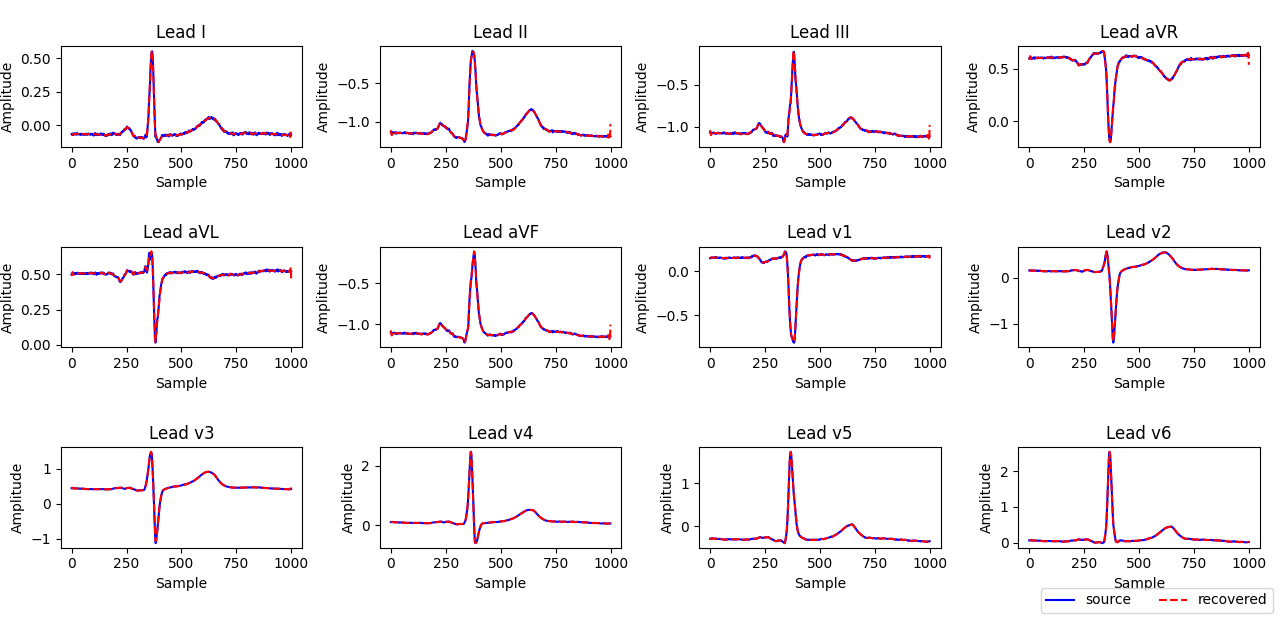
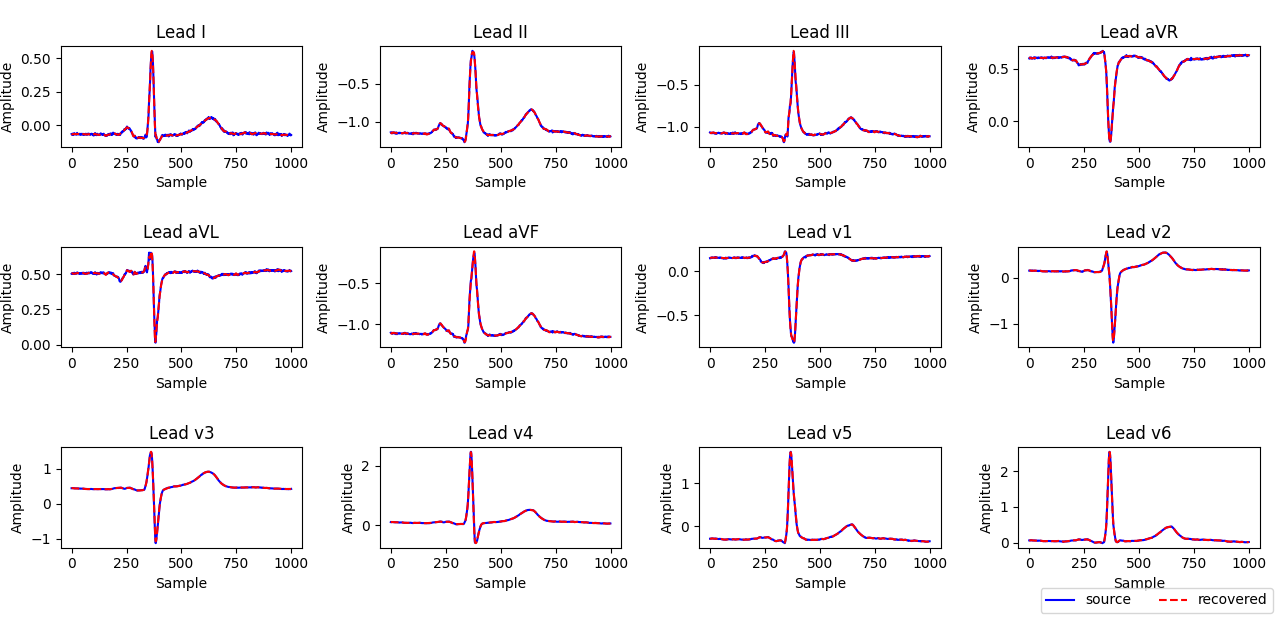
Cleanup

diff --git a/paper/content/results.tex b/paper/content/results.tex
@@ -2,8 +2,26 @@
 
 To demonstrate functionality of the software implementation, a 1-second long sample was selected from the `s0306lre' data source.
 This waveform contains a single heartbeat pulse, and was shown to yield ideal results with the group LASSO algorithm.
+The Python code below demonstrates a high-level overview of the process that was applied to the waveform.
 Figure \ref{fig:compression} shows the original selected waveform of the ECG on lead 2, as well as the waveform with compression applied.
 Note that a compression ratio of 10:1 is selected, which yields a compressed length of 100 samples.
+
+\begin{lstlisting}[language=Python, caption=Full Compression and Recovery of 12 Lead ECG]
+    """scripts\demo.py"""
+    ecg = csecg.Ecg(channel_names, signals)
+
+    # Compress the signal!
+    cr = 10
+    phi = csecg.sensing_matrix(ecg, cr)
+    compressed_data = phi @ ecg.signals
+
+    # Compute the basis matrix and solve for the sparse coefficient matrix
+    psi = csecg.basis_matrix(ecg.length)
+    reconstructed_coefs = csecg.group_lasso_solver(compressed_data, phi, psi)
+
+    # Recover the signal!
+    recovered_signals = psi @ reconstructed_coefs
+\end{lstlisting}
 
 \begin{figure}[h]
     \centering
@@ -18,14 +36,14 @@ Recovering the original signal from the compressed data and sensing matrix yield
 
 \begin{figure}[H]
     \centering
-    \includegraphics[width=.95\textwidth]{demo_lead_ii_recovered.png}
+    \includegraphics[width=1.1\textwidth]{demo_lead_ii_recovered.png}
     \caption{Source ECG v.s. Recovered Signal, Lead II}
     \label{fig:lead_ii_recovered}
 \end{figure}
 
 \begin{figure}[H]
     \centering
-    \includegraphics[width=.95\textwidth]{demo_all_leads_recovered.png}
+    \includegraphics[width=\textwidth]{demo_all_leads_recovered.png}
     \caption{Source ECG v.s. Recovered Signal, All Leads}
     \label{fig:all_recovered}
 \end{figure}

diff --git a/paper/SchottJordanFinalProject.tex b/paper/SchottJordanFinalProject.tex
@@ -47,6 +47,10 @@ The source code used in this paper is publicly available at:
 \newline
 \url{https://github.com/jschott515/colostate-ece537-project}
 
+\section*{AI Disclosure}
+AI tools were used during the preparation of this report to identify potential references, provide supplemental explanations for technical concepts, and locate documentation for Python libraries.
+All code and written content in this report are my original work.
+
 \newpage
 \input{content/references}
 

diff --git a/csecg/src/csecg/__init__.py b/csecg/src/csecg/__init__.py
@@ -1,4 +1,13 @@
-from ._decoder import prd, group_lasso_solver, lasso_solver
+from ._decoder import group_lasso_solver, lasso_solver, prd
 from ._ecg import Ecg
 from ._encoder import sensing_matrix
 from ._wavelet import basis_matrix
+
+__all__ = [
+    "group_lasso_solver",
+    "lasso_solver",
+    "prd",
+    "Ecg",
+    "sensing_matrix",
+    "basis_matrix",
+]

diff --git a/csecg/src/csecg/_wavelet.py b/csecg/src/csecg/_wavelet.py
@@ -25,4 +25,5 @@ def basis_matrix(length: int) -> numpy.typing.NDArray[numpy.float64]:
     # Pad with an additional column
     # https://pmc.ncbi.nlm.nih.gov/articles/PMC8587449/ Equation 12
     u = (1 / numpy.sqrt(length)) * numpy.ones(length)
+    cols.append(u)
     return numpy.column_stack(cols)

diff --git a/csecg/src/csecg/util/__init__.py b/csecg/src/csecg/util/__init__.py
@@ -1,2 +1,10 @@
 from ._dataset import DATASET, dataset_exists, download_dataset
-from ._info import PRJ_ROOT, DATA_DIR
+from ._info import DATA_DIR, PRJ_ROOT
+
+__all__ = [
+    "DATASET",
+    "dataset_exists",
+    "download_dataset",
+    "DATA_DIR",
+    "PRJ_ROOT",
+]

diff --git a/paper/content/method.tex b/paper/content/method.tex
@@ -80,6 +80,7 @@ def basis_matrix(length: int):
             cols.append(psi)
     # Pad with an additional column
     u = (1 / numpy.sqrt(length)) * numpy.ones(length)
+    cols.append(u)
     return numpy.column_stack(cols)
 \end{lstlisting}
 

diff --git a/csecg/src/csecg/_decoder.py b/csecg/src/csecg/_decoder.py
@@ -13,6 +13,7 @@ def prd(
     """
     return (numpy.linalg.norm(x - x_hat, 2) / numpy.linalg.norm(x, 2)) * 100
 
+
 def lasso_solver(
     compressed_data: numpy.typing.NDArray[numpy.float64],
     phi: numpy.typing.NDArray[numpy.float64],

diff --git a/csecg/src/csecg/plot/__init__.py b/csecg/src/csecg/plot/__init__.py
@@ -1,2 +1,8 @@
 from ._compression import show_compression
 from ._recovery import show_recovery_all, show_recovery_single
+
+__all__ = [
+    "show_compression",
+    "show_recovery_all",
+    "show_recovery_single",
+]

diff --git a/csecg/src/csecg/loader/ptbdb.py b/csecg/src/csecg/loader/ptbdb.py
@@ -1,9 +1,9 @@
-import typing
 import pathlib
+import typing
 
-import wfdb
 import numpy
 import numpy.typing
+import wfdb
 
 
 def load_12_lead_record(

diff --git a/csecg/src/csecg/util/_info.py b/csecg/src/csecg/util/_info.py
@@ -1,5 +1,4 @@
 import pathlib
 
-
 PRJ_ROOT = pathlib.Path(__file__).resolve().parent.parent.parent.parent
 DATA_DIR = PRJ_ROOT / "data"

diff --git a/csecg/src/csecg/plot/_recovery.py b/csecg/src/csecg/plot/_recovery.py
@@ -1,6 +1,6 @@
+import matplotlib.pyplot
 import numpy
 import numpy.typing
-import matplotlib.pyplot
 
 
 def show_recovery_all(

diff --git a/csecg/src/csecg/plot/_compression.py b/csecg/src/csecg/plot/_compression.py
@@ -1,6 +1,6 @@
+import matplotlib.pyplot
 import numpy
 import numpy.typing
-import matplotlib.pyplot
 
 
 def show_compression(
